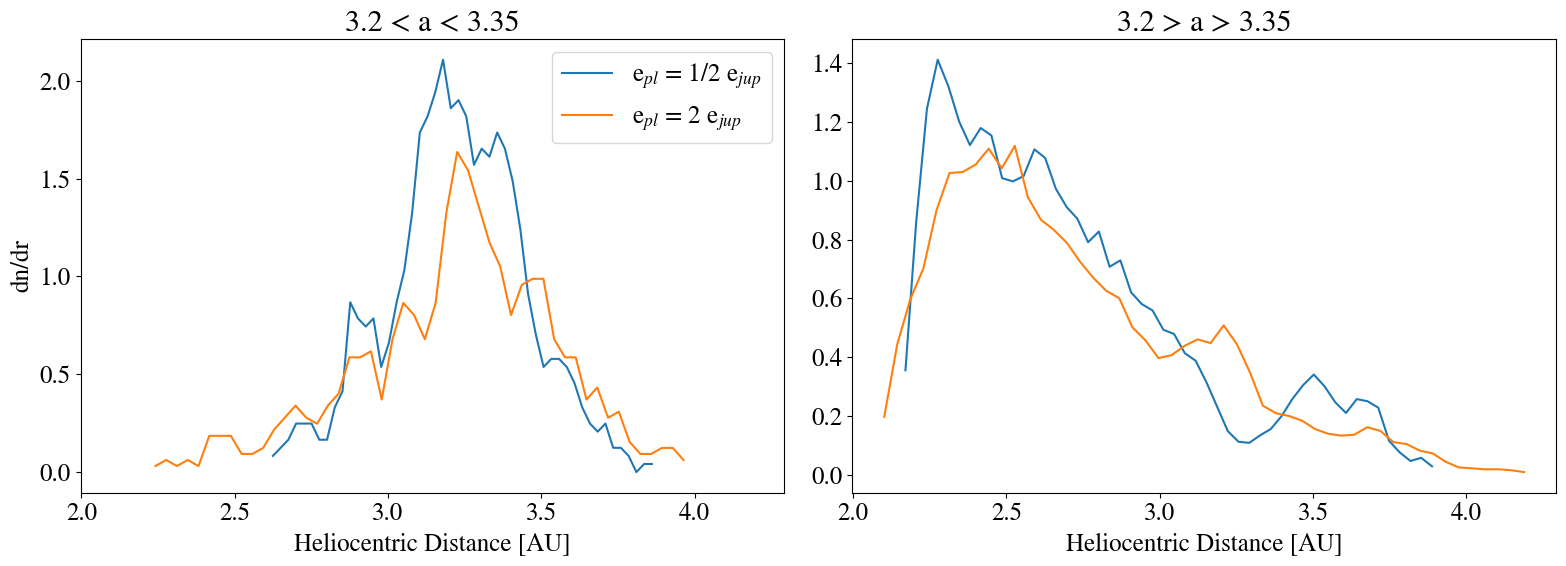
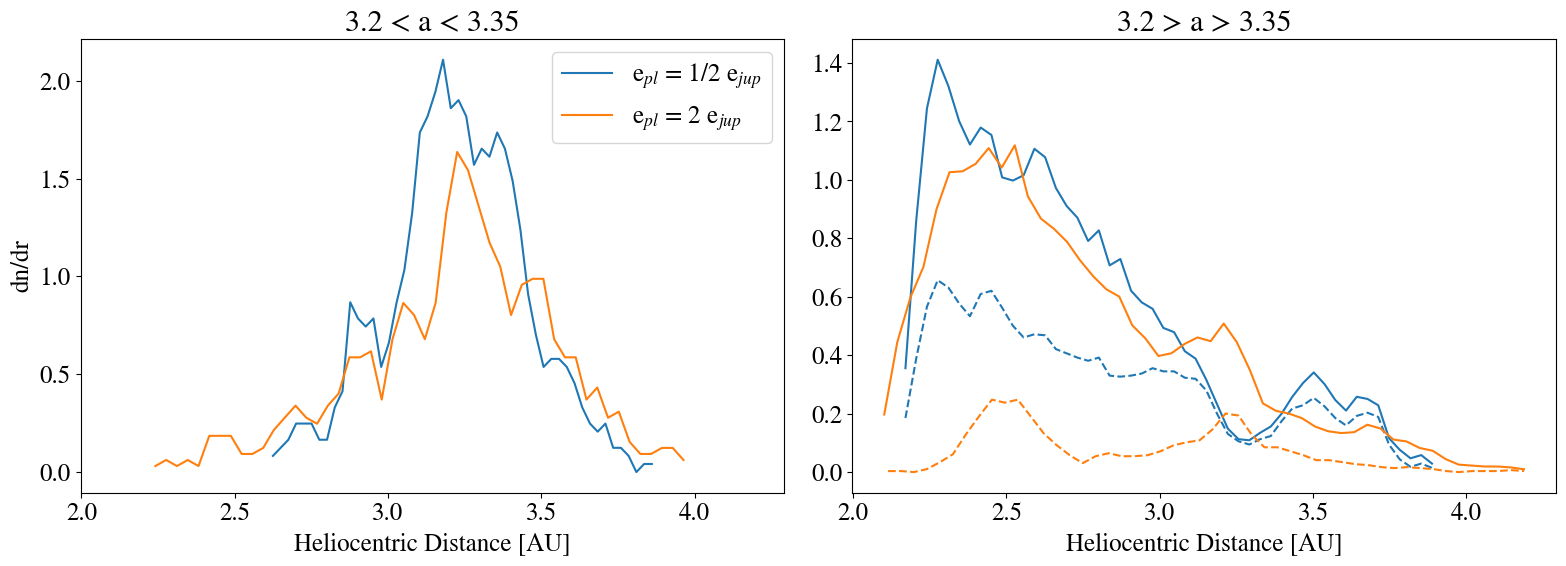
Start looking at effect of pericenter precession near resonances

diff --git a/makeFig.py b/makeFig.py
@@ -226,19 +226,28 @@ def make_ae():
 
 	# Libration width varies with eccentricity so it doesn't make much sense
 	# to do show_widths=True here
-	fig, (ax1, ax2) = plt.subplots(figsize=(8,8), nrows=2, ncols=1, sharex=True, sharey=True)
-	ax1.scatter(pl_c['a'], pl_c['e'], s=s)
-	plot_res(ax1, show_widths=False)
-	ax1.set_ylabel('Eccentricity')
-	ax1.set_title('Circular Jupiter')
-	ax2.scatter(pl_e['a'], pl_e['e'], s=s)
-	plot_res(ax2, show_widths=False)
-	ax2.set_xlim(2, 4)
-	ax2.set_xlabel('Semimajor Axis [AU]')
-	ax2.set_ylabel('Eccentricity')
-	ax2.set_title('Eccentric Jupiter')
+	fig, ax = plt.subplots(figsize=(8,12), nrows=3, ncols=1, sharex=True, sharey=True)
+	ax[0].scatter(pl_e1['a'], pl_e1['e'], s=s)
+	#plot_res(ax[0], show_widths=False)
+	ax[0].set_ylabel('Eccentricity')
+	ax[0].set_title(r'e$_{pl}$ = 1/2 e$_{jup}$')
+
+	ax[1].scatter(pl_e['a'], pl_e['e'], s=s)
+	#plot_res(ax[1], show_widths=False)
+	ax[1].set_ylabel('Eccentricity')
+	ax[1].set_title(r'e$_{pl}$ = e$_{jup}$')
+
+	ax[2].scatter(pl_e2['a'], pl_e2['e'], s=s)
+	#plot_res(ax[2], show_widths=False)
+	ax[2].set_ylabel('Eccentricity')
+	ax[2].set_title(r'e$_{pl}$ = 2 e$_{jup}$')
+
+	ax[2].set_xlabel('Semimajor Axis [AU')
+
 	# sharey=true hides the tick labels
-	ax2.yaxis.set_tick_params(labelleft=True)
+	ax[2].yaxis.set_tick_params(labelleft=True)
+	ax[2].set_xlim(2, 4)
+	ax[2].set_ylim(-0.001, 0.2)
 	#plt.tight_layout(h_pad=0)
 	plt.savefig(file_str, format=fmt, bbox_inches='tight')
 
@@ -247,12 +256,22 @@ def make_long_ph():
 	if not clobber and os.path.exists(file_str):
 		return
 
-	fig, ax = plt.subplots(figsize=(8,8))
-	ax.scatter((pl_e['asc_node'] + pl_e['omega'] + np.pi)%(2*np.pi), pl_e['a'], s=s)
-	plot_res(ax, vertical=False, show_widths=True)
-	ax.set_ylim(2, 4)
-	ax.set_xlabel('Longitude of Perihelion')
-	ax.set_ylabel('Semimajor Axis [AU]')
+	fig, ax = plt.subplots(figsize=(16,6), nrows=1, ncols=3, sharex=True, sharey=True)
+	ax[0].scatter((pl_e1['asc_node'] + pl_e1['omega'] + np.pi)%(2*np.pi), pl_e1['a'], s=s)
+	plot_res(ax[0], vertical=False, show_widths=True)
+	ax[0].set_title(label=r'e$_{pl}$ = 1/2 e$_{jup}$')
+	ax[0].set_ylim(2, 4)
+	ax[1].set_xlabel('Longitude of Perihelion')
+	ax[0].set_ylabel('Semimajor Axis [AU]')
+
+	ax[1].scatter((pl_e['asc_node'] + pl_e['omega'] + np.pi)%(2*np.pi), pl_e['a'], s=s)
+	plot_res(ax[1], vertical=False, show_widths=True)
+	ax[1].set_title(label=r'e$_{pl}$ = e$_{jup}$')
+
+	ax[2].scatter((pl_e2['asc_node'] + pl_e2['omega'] + np.pi)%(2*np.pi), pl_e2['a'], s=s)
+	plot_res(ax[2], vertical=False, show_widths=True)
+	ax[2].set_title(label=r'e$_{pl}$ = 2 e$_{jup}$')
+	fig.tight_layout()
 	plt.savefig(file_str, format=fmt, bbox_inches='tight')
 
 def make_coll_hist_a():
@@ -472,6 +491,63 @@ def make_coll_hist_r_inout_res():
 	coll_bins_out_21_e2, coll_pdf_out_21_e2 = kde(coll_out_21_e2['dist2'])
 	coll_pdf_out_21_e2 *= len(coll_out_21_e1)/len(coll_out_21_e2)
 
+	# Cut out secularly aligned collisions from out_21
+	cut_angle = 0.5
+
+	curlypi_diff_e11 = np.fabs((coll_out_21_e1['omega1'] + coll_out_21_e1['Omega1'] + np.pi)%(2*np.pi) - np.pi)
+	curlypi_diff_e12 = np.fabs((coll_out_21_e1['omega2'] + coll_out_21_e1['Omega2'] + np.pi)%(2*np.pi) - np.pi)
+	curlypi_mask_e1 = np.logical_or(curlypi_diff_e11 > cut_angle, curlypi_diff_e12 > cut_angle)
+	coll_bins_out_spread_21_e1, coll_pdf_out_spread_21_e1 = kde(coll_out_21_e1[curlypi_mask_e1]['dist2'])
+	coll_pdf_out_spread_21_e1 *= len(coll_out_21_e1[curlypi_mask_e1])/len(coll_out_21_e1)
+
+	curlypi_diff_e21 = np.fabs((coll_out_21_e2['omega1'] + coll_out_21_e2['Omega1'] + np.pi)%(2*np.pi) - np.pi)
+	curlypi_diff_e22 = np.fabs((coll_out_21_e2['omega2'] + coll_out_21_e2['Omega2'] + np.pi)%(2*np.pi) - np.pi)
+	curlypi_mask_e2 = np.logical_or(curlypi_diff_e21 > cut_angle, curlypi_diff_e22 > cut_angle)
+	coll_bins_out_spread_21_e2, coll_pdf_out_spread_21_e2 = kde(coll_out_21_e2[curlypi_mask_e2]['dist2'])
+	coll_pdf_out_spread_21_e2 *= len(coll_out_21_e2[curlypi_mask_e2])/len(coll_out_21_e2)
+
+	fig, ax = plt.subplots(figsize=(16,6), nrows=1, ncols=2, sharex=True)
+	ax[0].plot(coll_bins_in_21_e1, coll_pdf_in_21_e1, label=r'e$_{pl}$ = 1/2 e$_{jup}$')
+	ax[0].plot(coll_bins_in_21_e2, coll_pdf_in_21_e2, label=r'e$_{pl}$ = 2 e$_{jup}$')
+	c = next(ax[1]._get_lines.prop_cycler)['color']
+	ax[1].plot(coll_bins_out_21_e1, coll_pdf_out_21_e1, color=c)
+	ax[1].plot(coll_bins_out_spread_21_e1, coll_pdf_out_spread_21_e1, color=c, linestyle='--')
+	c = next(ax[1]._get_lines.prop_cycler)['color']
+	ax[1].plot(coll_bins_out_21_e2, coll_pdf_out_21_e2, color=c)
+	ax[1].plot(coll_bins_out_spread_21_e2, coll_pdf_out_spread_21_e2, color=c, linestyle='--')
+	ax[0].legend()
+	ax[0].set_xlabel('Heliocentric Distance [AU]')
+	ax[0].set_title(str(a21_in) + ' < a < ' + str(a21_out))
+	ax[1].set_xlabel('Heliocentric Distance [AU]')
+	ax[0].set_ylabel('dn/dr')
+	ax[1].set_title(str(a21_in) + ' > a > ' + str(a21_out))
+
+	plt.tight_layout()
+	plt.savefig(file_str, format=fmt, bbox_inches='tight')
+
+def make_coll_hist_r_inout_res31():
+	file_str = 'figures/coll_hist_r_inout_res31.' + fmt
+	if not clobber and os.path.exists(file_str):
+		return
+
+	a21_in, a21_out = 2.49, 2.51
+
+	def coll_in_out_21(coll):
+		mask = np.logical_and(coll['a1'] > a21_in, coll['a1'] < a21_out)
+		coll_in = coll[mask]
+		coll_out = coll[~mask]
+		return coll_in, coll_out
+
+	coll_in_21_e1, coll_out_21_e1 = coll_in_out_21(coll_e1)
+	coll_in_21_e2, coll_out_21_e2 = coll_in_out_21(coll_e2)
+
+	coll_bins_in_21_e1, coll_pdf_in_21_e1 = kde(coll_in_21_e1['dist2'])
+	coll_bins_in_21_e2, coll_pdf_in_21_e2 = kde(coll_in_21_e2['dist2'])
+	coll_pdf_in_21_e2 *= len(coll_in_21_e1)/len(coll_in_21_e2)
+	coll_bins_out_21_e1, coll_pdf_out_21_e1 = kde(coll_out_21_e1['dist2'])
+	coll_bins_out_21_e2, coll_pdf_out_21_e2 = kde(coll_out_21_e2['dist2'])
+	coll_pdf_out_21_e2 *= len(coll_out_21_e1)/len(coll_out_21_e2)
+
 	fig, ax = plt.subplots(figsize=(16,6), nrows=1, ncols=2, sharex=True)
 	ax[0].plot(coll_bins_in_21_e1, coll_pdf_in_21_e1, label=r'e$_{pl}$ = 1/2 e$_{jup}$')
 	ax[0].plot(coll_bins_in_21_e2, coll_pdf_in_21_e2, label=r'e$_{pl}$ = 2 e$_{jup}$')
@@ -537,12 +613,13 @@ def make_wander_res_scale():
 	plt.savefig(file_str, format=fmt, bbox_inches='tight')
 
 #make_xy()
-#make_ae()
+make_ae()
 #make_long_ph()
-#make_coll_hist_a()
+make_coll_hist_a()
 #make_coll_hist_r()
 #make_coll_hist_e_and_m()
 #make_coll_hist_hot_cold_a()
 #make_coll_gf_vary()
-make_coll_hist_r_inout_res()
-make_wander_res_scale()
+#make_coll_hist_r_inout_res()
+#make_coll_hist_r_inout_res31()
+#make_wander_res_scale()

diff --git a/main.tex b/main.tex
@@ -67,6 +67,9 @@ can be done quickly and efficiently. This considerably relaxes the constraints o
 explore the collision rate structure of the planetesimal disk in the vicinity of mean motion resonances. In particular, we would like to 
 determine: 1. whether MMRs leave a detectable signature in the collisionally-generated dust. 2. If these signatures can be used to determine the orbital properties of the perturbing planet.
 
+Also mention \citet{2020A&A...635A..10S}, looked at dust trapping in resonances with terrestrial SS planets. Also mention 
+\citet{2020arXiv200408736G}, detection of a planetesimal collision around Fomalhut.
+
 This work is organized in the following way: In section \ref{sec:dynamics}, we provide an overview of the relevant dynamics that drive 
 the evolution of a planetesimal disk under the gravitational influence of an external perturber. We also highlight the shortcomings of secular theory in trying to predict the radial collision rate and motivate the need for N-body simulations with massive, collisional particles. In section \ref{sec:sims} we describe the N-body code that we use and detail the initial conditions that are used for two simulations: one in which the perturber is on a circular orbit and another in which the perturber is given a mildly eccentric orbit. Section \ref{sec:results} presents the results of the two simulations. Next, we generate dust emission maps in section \ref{sec:dust}, under the assumption that collisionally-generated dust will quickly couple with the gas and circularize, and show that radial structure is produced in the vicinity of the MMRs. Using the dust emission maps, section \ref{sec:fitting} explores the feasibility of measuring properties of the perturbing planet from the MMR features in the dust. We then conclude in section \ref{sec:discuss}. 
 
@@ -253,11 +256,7 @@ MMR spikes also grows because the strength of a MMR scales as $e^{q}$, where $q$
 \begin{figure}
     \begin{center}
     \includegraphics[width=0.4\columnwidth]{figures/ae.png}
-    \caption{The semimajor axis - eccentricity state of the remaining planetesimals are shown at the end of the CJ (top) and EJ (bottom) 
-    simulations. The vertical bars mark the nominal locations of prominent resonances. Planetesimals affected by resonance with Jupiter gain
-     eccentricity, and due to conservation of the Jacobi energy, reduce their semimajor axes. This produces the curved fingerlike structure 
-     extending off of the resonances. In the EJ case, some bodies in resonance take on eccentricities smaller than their initial forced values as 
-     they undergo libration.\label{fig:ae}}
+    \caption{The semimajor axis and eccentricities of planetesimals at the end of the eccentric Jupiter simulations. Near the location of mean motion resonances, the resonant angle librates and drives corresponding oscillations in eccentricity. Due to the conservation of the Jacobi energy, these changes in eccentricity also drive slight, inward changes in semimajor axis.\label{fig:ae}}
     \end{center}
 \end{figure}
 
@@ -270,11 +269,8 @@ eccentricity of $e_{forced}$ at each resonance, which approximately shows the zo
 
 \begin{figure}
     \begin{center}
-    \includegraphics[width=0.4\columnwidth]{figures/long_ph.png}
-    \caption{The semimajor axis and pericenter orientation of remaining planetesimals at the end of the EJ simulation. All bodies start with their 
-    pericenters closely aligned with Jupiter's ($\varpi = \pi$). Near the resonances, bodies undergo strong precession which randomizes their 
-    orbital orientations. Two-body interactions between the planetesimals in resonance and nearby non-resonant planetesimals drags their 
-    longitude of perihelia along with.\label{fig:long_ph}}
+    \includegraphics[width=\columnwidth]{figures/long_ph.png}
+    \caption{The semimajor axis and pericenter orientation of remaining planetesimals at the end of the eccentric Jupiter simulations. When the forced eccentricity of the planetesimal disk is large, planetesimals near the edge of the mean motion resonances become more resistant to precession induced by the resonances.\label{fig:long_ph}}
     \end{center}
 \end{figure}
 
@@ -403,7 +399,7 @@ features can be used to place any constraints on the mass and eccentricity of th
 \begin{figure*}
     \begin{center}
     \includegraphics[width=\textwidth]{figures/coll_hist_r_inout_res.png}
-    \caption{KDE of the number of collisions at a given heliocentric distance for planetesimals inside (left) and outside (right) of the 2:1 MMR. In the $e_{pl} = 2 e_{jup}$ case, a bump, rather than a dip appears near the 2:1 MMR (see figure \ref{fig:coll_hist_e_and_m}). This bump is produced by non-resonant planetesimals undergoing collisions near the center of the 2:1 MMR.\label{fig:coll_hist_r_inout_res}}
+    \caption{KDE of the number of collisions at a given heliocentric distance for planetesimals inside (left) and outside (right) of the 2:1 MMR. In the $e_{pl} = 2 e_{jup}$ case, a bump, rather than a dip appears near the 2:1 MMR (see figure \ref{fig:coll_hist_e_and_m}). This bump is produced by non-resonant planetesimals undergoing collisions near the center of the 2:1 MMR. In the right panel, the dashed curves represent collisions where the longitude of perihelion of either collider was strongly misaligned with Jupiter. In the high eccentricity case, bodies near the edge of the resonance with randomly oriented orbits can reach across the resonance and collide with planetesimals on the other side.\label{fig:coll_hist_r_inout_res}}
     \end{center}
 \end{figure*}
 
